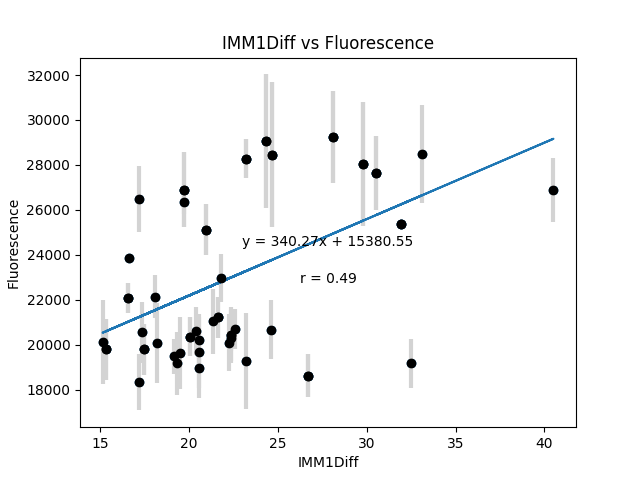
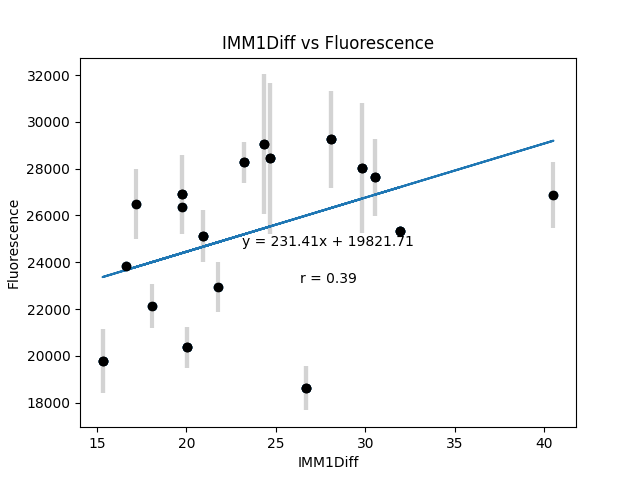
90% WT fluor cutoff

diff --git a/ngsReconstruction/CHIP2_analysisCode/mutantAnalysis.py b/ngsReconstruction/CHIP2_analysisCode/mutantAnalysis.py
@@ -124,7 +124,7 @@ for sequence in df_sequences_with_mutant['Sequence']:
     sequenceFluor = df_sequences_with_mutant.loc[df_sequences_with_mutant['Sequence'] == sequence, 'mean'].values[0]
     mutantFluor = df_mutants_with_WT.loc[df_mutants_with_WT['Sequence'] == sequence, 'mean']
     mutantFluor = mutantFluor.divide(sequenceFluor)*100
-    if any(mutantFluor.values < 100):
+    if any(mutantFluor.values < 90):
         successfulSeqs += 1
         print(mutantFluor, sequenceFluor)
         # add that row to the dataframe
